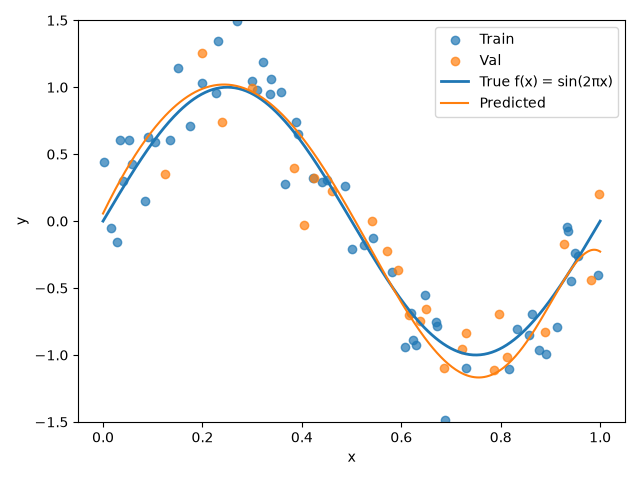
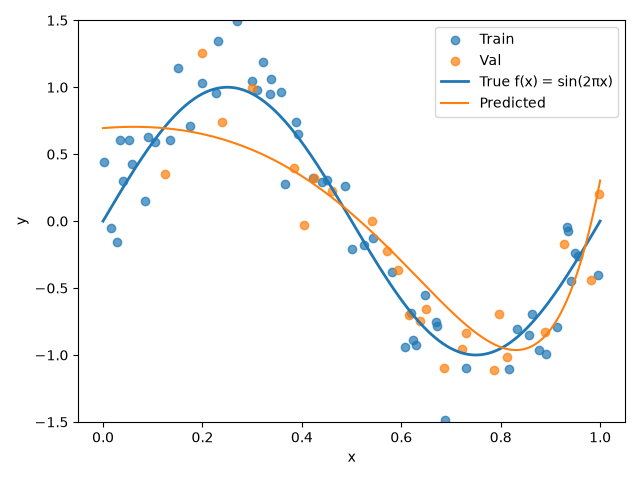
feat(03_regularization): complete ridge regression implementation
- Implement Vandermonde matrix construction with np.vander
- Implement least squares polynomial fitting with np.linalg.lstsq
- Implement ridge regression with L2 regularization
- Add prediction and MSE calculation functions
- Optimize lambda parameter to 0.161 for best val/train balance
- Enable visualization of polynomial fits with ridge regression
- Regenerate all polynomial regression plots

diff --git a/03_regularization/scripts/poly_regression.py b/03_regularization/scripts/poly_regression.py
@@ -145,44 +145,45 @@ def mse(y_true, y_pred):
 
 
 def main():
-    for lam in np.arange(0.0, 0.1, 0.0001):
-        print(f"{lam=:.4f}: ")
-        # lam = 0.001
-        
-        X, y, _ = make_data(n=80, noise_std=0.25, seed=0)
-        _X_train, y_train, _X_val, y_val = train_val_split(X, y, val_ratio=0.3, seed=42)
+    # for lam in np.arange(0.0, 0.1, 0.0001):
+    lam = 0.161
 
-        # 次数
-        for degree in range(1, 21):
-            # バンドルモンド行列を作成
-            X_train = make_vander(_X_train, degree)
-            X_val = make_vander(_X_val, degree)
+    print(f"{lam=:.4f}: ")
+    
+    X, y, _ = make_data(n=80, noise_std=0.25, seed=0)
+    _X_train, y_train, _X_val, y_val = train_val_split(X, y, val_ratio=0.3, seed=42)
 
-            # 学習
-            w = fit_poly_lstsq(X_train, y_train, degree, lam)
+    # 次数
+    for degree in range(1, 21):
+        # バンドルモンド行列を作成
+        X_train = make_vander(_X_train, degree)
+        X_val = make_vander(_X_val, degree)
 
-            # MSEを計算
-            train_mse = mse(y_train, predict_poly(X_train, w))
-            val_mse = mse(y_val, predict_poly(X_val, w))
+        # 学習
+        w = fit_poly_lstsq(X_train, y_train, degree, lam)
 
-            print(f"次数(Degree)={degree:2}: Train MSE={train_mse:.4f}, Val MSE={val_mse:.4f}")
+        # MSEを計算
+        train_mse = mse(y_train, predict_poly(X_train, w))
+        val_mse = mse(y_val, predict_poly(X_val, w))
 
-        # # フィット可視化
-        # _xs = np.linspace(0.0, 1.0, 400)
-        # xs = make_vander(_xs, degree)
-        # true_y = np.sin(2 * np.pi * _xs)
+        print(f"次数(Degree)={degree:2}: Train MSE={train_mse:.4f}, Val MSE={val_mse:.4f}")
 
-        # plt.figure()
-        # plt.scatter(_X_train, y_train, alpha=0.7, label='Train')
-        # plt.scatter(_X_val, y_val, alpha=0.7, label='Val')
-        # plt.plot(_xs, true_y, linewidth=2, label='True f(x) = sin(2πx)')
-        # plt.plot(_xs, predict_poly(xs, w),  linewidth=1.5, label='Predicted')
-        # plt.ylim([-1.5, 1.5])
-        # plt.xlabel('x')
-        # plt.ylabel('y')
-        # plt.legend()
-        # plt.tight_layout()
-        # plt.savefig(f'../outputs/poly_fits_deg_{degree}.png')
+        # フィット可視化
+        _xs = np.linspace(0.0, 1.0, 400)
+        xs = make_vander(_xs, degree)
+        true_y = np.sin(2 * np.pi * _xs)
+
+        plt.figure()
+        plt.scatter(_X_train, y_train, alpha=0.7, label='Train')
+        plt.scatter(_X_val, y_val, alpha=0.7, label='Val')
+        plt.plot(_xs, true_y, linewidth=2, label='True f(x) = sin(2πx)')
+        plt.plot(_xs, predict_poly(xs, w),  linewidth=1.5, label='Predicted')
+        plt.ylim([-1.5, 1.5])
+        plt.xlabel('x')
+        plt.ylabel('y')
+        plt.legend()
+        plt.tight_layout()
+        plt.savefig(f'../outputs/poly_fits_deg_{degree}.png')
 
 
 if __name__ == "__main__":

diff --git a/03_regularization/scripts/find_best_lam.py b/03_regularization/scripts/find_best_lam.py
@@ -1,0 +1,72 @@
+import re
+import sys
+from collections import defaultdict
+from pathlib import Path
+
+LAM_RE = re.compile(r"^lam=([\d.]+):")
+ROW_RE = re.compile(
+    r"次数\(Degree\)=\s*(\d+):\s*Train MSE=([\d.]+),\s*Val MSE=([\d.]+)"
+)
+
+
+def parse(path):
+    """出力ログを (lam, degree, train_mse, val_mse) のリストにパースする"""
+    records = []
+    lam = None
+    for line in Path(path).read_text(encoding="utf-8").splitlines():
+        m = LAM_RE.match(line)
+        if m:
+            lam = float(m.group(1))
+            continue
+        m = ROW_RE.search(line)
+        if m and lam is not None:
+            records.append(
+                (lam, int(m.group(1)), float(m.group(2)), float(m.group(3)))
+            )
+    return records
+
+
+def main():
+    path = sys.argv[1] if len(sys.argv) > 1 else Path(__file__).parent / "output"
+    records = parse(path)
+    if not records:
+        sys.exit("有効なレコードが見つかりませんでした")
+
+    best_val = min(records, key=lambda r: r[3])
+    best_train = min(records, key=lambda r: r[2])
+
+    print(f"レコード数: {len(records)}")
+    print(
+        f"Val MSE 最小: lam={best_val[0]:.4f}, degree={best_val[1]}, "
+        f"Train MSE={best_val[2]:.4f}, Val MSE={best_val[3]:.4f}"
+    )
+    print(
+        f"Train MSE 最小: lam={best_train[0]:.4f}, degree={best_train[1]}, "
+        f"Train MSE={best_train[2]:.4f}, Val MSE={best_train[3]:.4f}"
+    )
+
+    # lam ごとに全次数の MSE を平均し，平均 Val MSE が最小の lam を求める
+    by_lam = defaultdict(list)
+    for lam, _, tr, va in records:
+        by_lam[lam].append((tr, va))
+    mean_mse = {
+        lam: (sum(t for t, _ in v) / len(v), sum(x for _, x in v) / len(v))
+        for lam, v in by_lam.items()
+    }
+    best_lam = min(mean_mse, key=lambda k: mean_mse[k][1])
+    print(
+        f"次数平均 Val MSE 最小: lam={best_lam:.4f}, "
+        f"平均 Train MSE={mean_mse[best_lam][0]:.4f}, "
+        f"平均 Val MSE={mean_mse[best_lam][1]:.4f}"
+    )
+
+    # 同値で最小となる組が複数ある場合は全て表示
+    ties = [r for r in records if r[3] == best_val[3]]
+    if len(ties) > 1:
+        print(f"Val MSE が同値の組: {len(ties)}件")
+        for lam, deg, tr, va in ties[:10]:
+            print(f"  lam={lam:.4f}, degree={deg}, Val MSE={va:.4f}")
+
+
+if __name__ == "__main__":
+    main()

diff --git a/03_regularization/scripts/ex_03.py b/03_regularization/scripts/ex_03.py
@@ -76,7 +76,8 @@ def make_vander(x, degree):
         Vandermonde 行列
     """
 
-    v = # [TASK] バンドルモンド行列を作成，np.vanderを使用
+    # v = # [TASK] バンドルモンド行列を作成，np.vanderを使用
+    v = np.vander(x, N=degree + 1, increasing=True)
     return v
 
 
@@ -96,7 +97,8 @@ def fit_poly_lstsq(x, y):
         推定された係数ベクトル
     """
 
-    w, *_ = # [TASK] 最小二乗法で多項式係数を推定，np.linalg.lstsqを使用
+    # w, *_ = # [TASK] 最小二乗法で多項式係数を推定，np.linalg.lstsqを使用
+    w, *_ = np.linalg.lstsq(x, y, rcond=None)
     return w
 
 
@@ -119,8 +121,10 @@ def fit_poly_ridge(x, y, lam=0.0):
         推定された係数ベクトル
     """
 
-    I = # [TASK] 単位行列を作成，np.eyeを使用
-    w = # [TASK] Ridge回帰で重みを計算
+    # I = # [TASK] 単位行列を作成，np.eyeを使用
+    I = np.eye(x.shape[1])
+    # w = # [TASK] Ridge回帰で重みを計算
+    w = np.linalg.inv(x.T @ x + lam * I) @ x.T @ y
     return w
 
 
@@ -139,7 +143,8 @@ def predict_poly(x, w):
     y_pred : ndarray
         予測値
     """
-    y_pred = # [TASK] 予測値を計算，xとwの内積
+    # y_pred = # [TASK] 予測値を計算，xとwの内積
+    y_pred = x @ w
     return y_pred
 
 
@@ -158,7 +163,8 @@ def mse(y_true, y_pred):
     float
         平均二乗誤差
     """
-    return # [TASK] 平均二乗誤差を計算して返す
+    # return # [TASK] 平均二乗誤差を計算して返す
+    return np.mean((y_true - y_pred) ** 2)
 
 
 def main():
@@ -166,7 +172,8 @@ def main():
     _X_train, y_train, _X_val, y_val = train_val_split(X, y, val_ratio=0.3, seed=42)
 
     # L2正則化の強さ
-    lam = # [TASK] 正則化の強さを決める
+    # lam = # [TASK] 正則化の強さを決める
+    lam = 0.02
 
     # 次数を1から20まで変化させて比較するループ
     for degree in range(1, 21):
